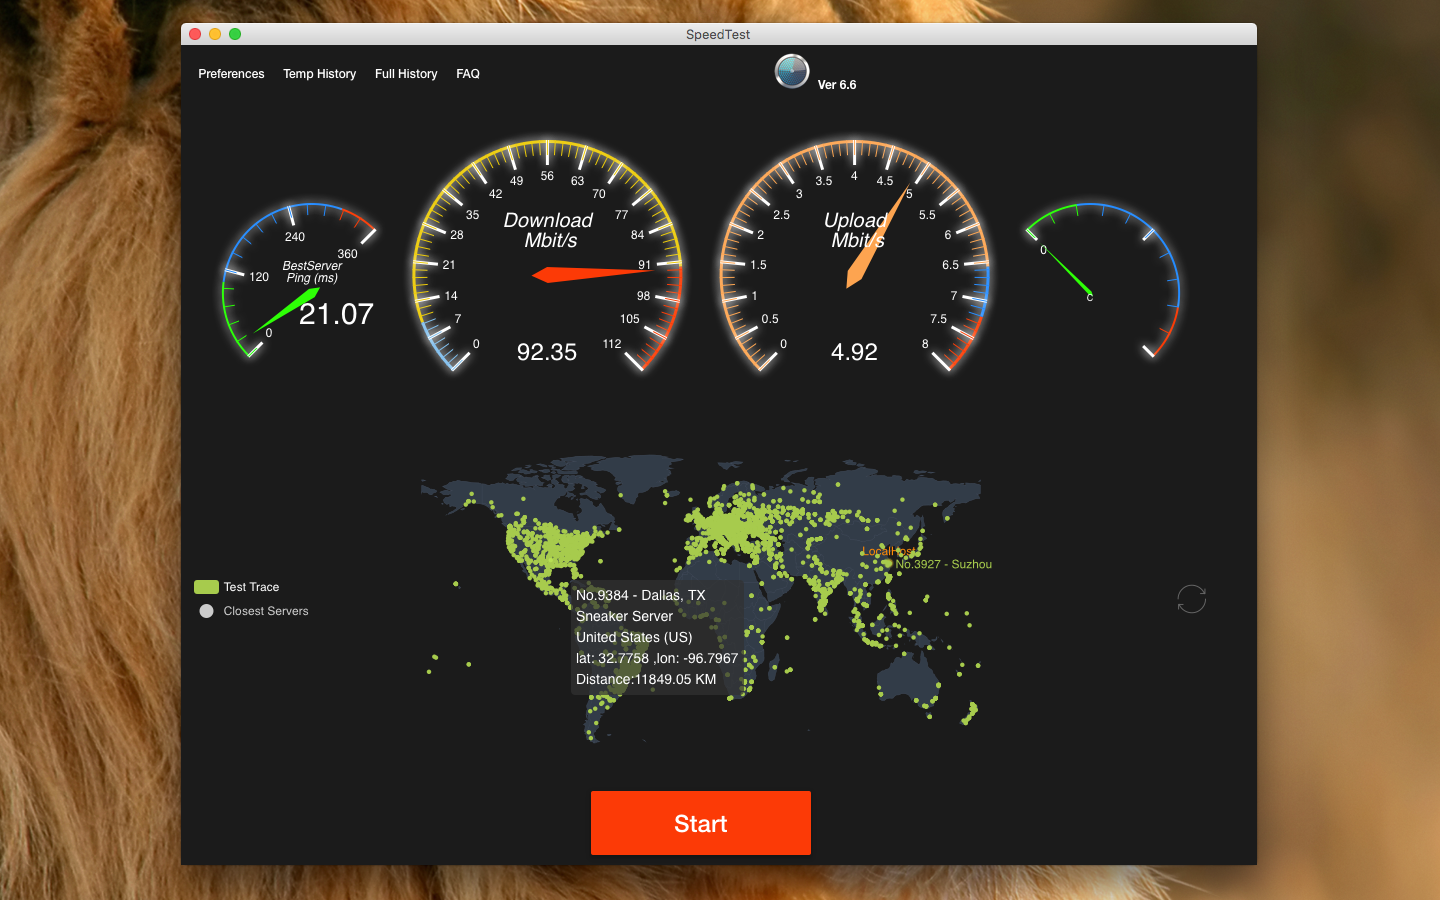
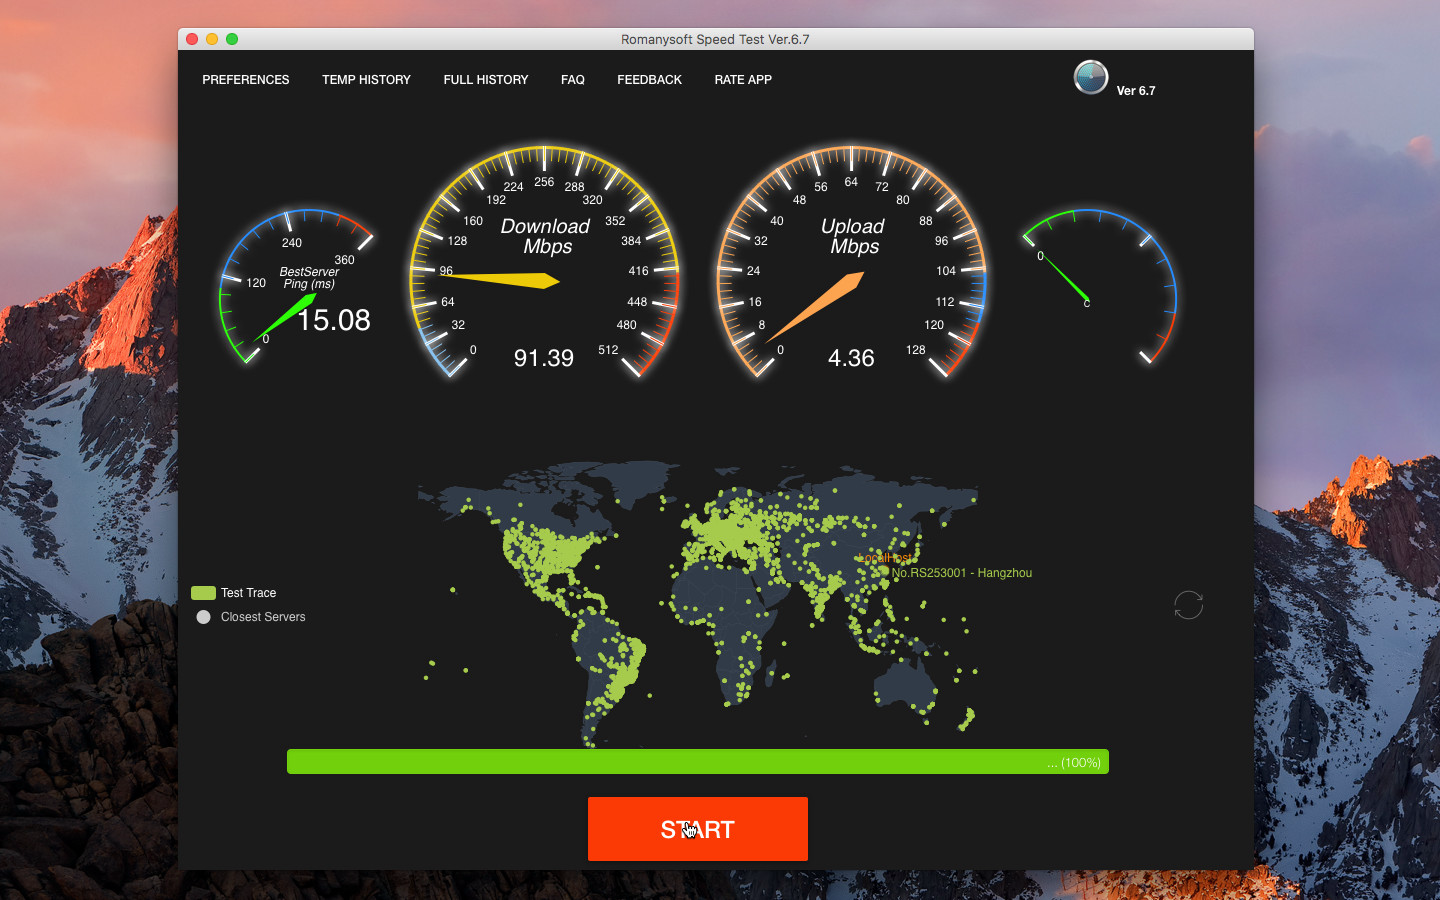
SpeedTest upgrade

diff --git a/js/config.js b/js/config.js
@@ -1,8 +1,8 @@
 (function () {
     window.RTYConfig = {
-        appName:"SpeedTest",
+        appName:"Romanysoft Speed Test",
         appID:"com.romanysoft.app.macos.speedtest",
-        documentTitle:"SpeedTest By Romanysoft",
+        documentTitle:"Romanysoft Speed Test",
         supportPlatforms:["Mac","Windows"],
         googleUA:"UA-76676167-6",
         gitHome:"//github.com/Romanysoft/SpeedTest",
